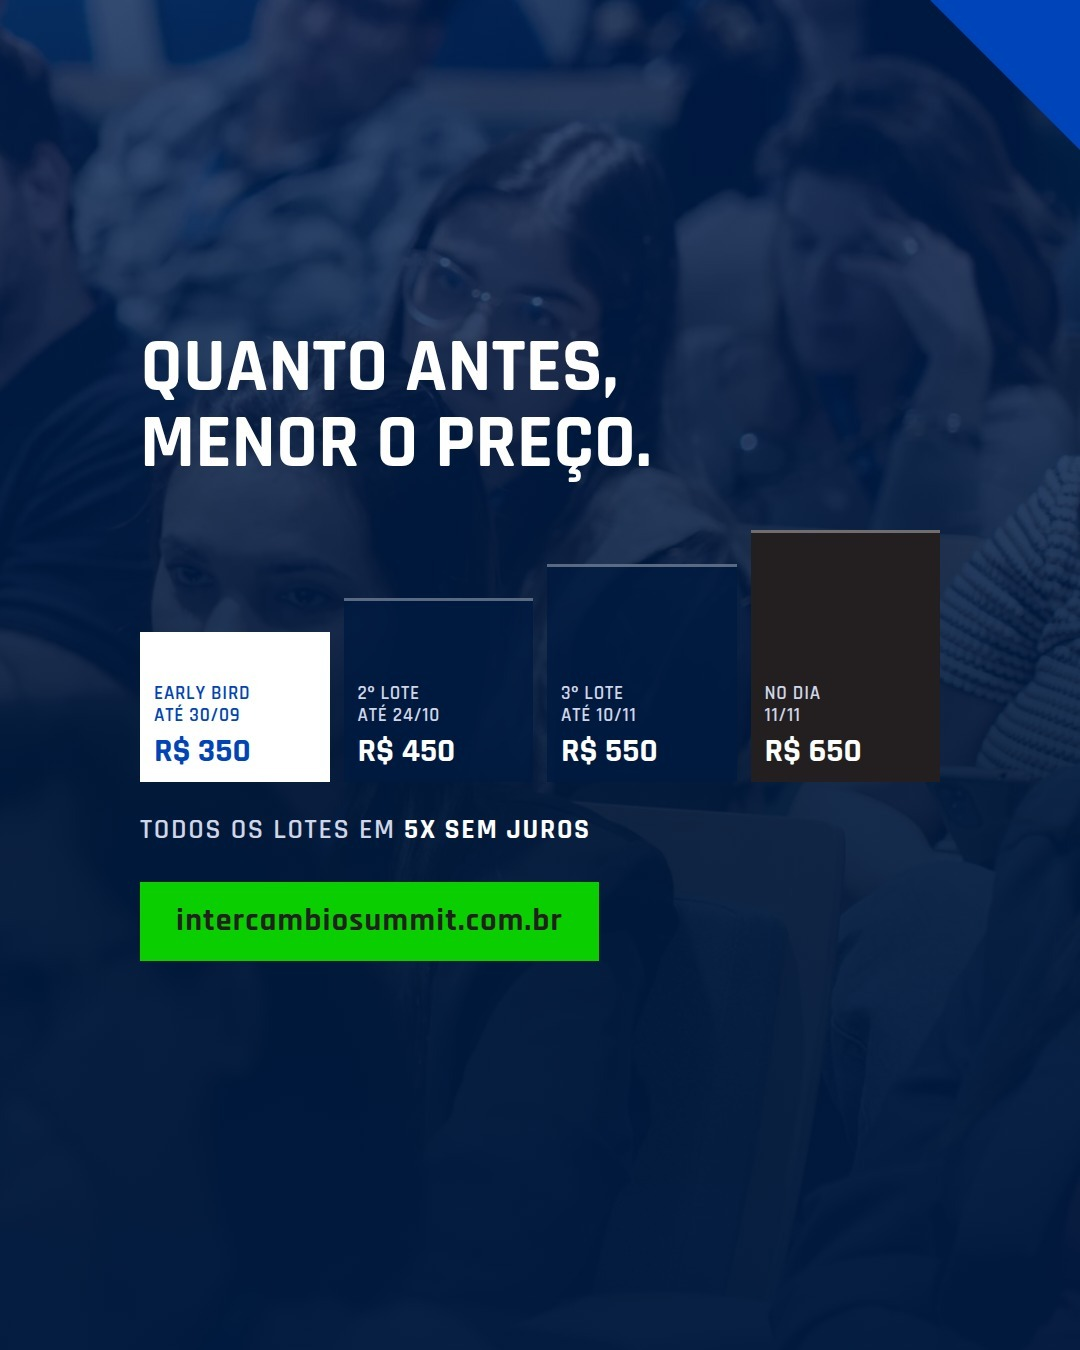
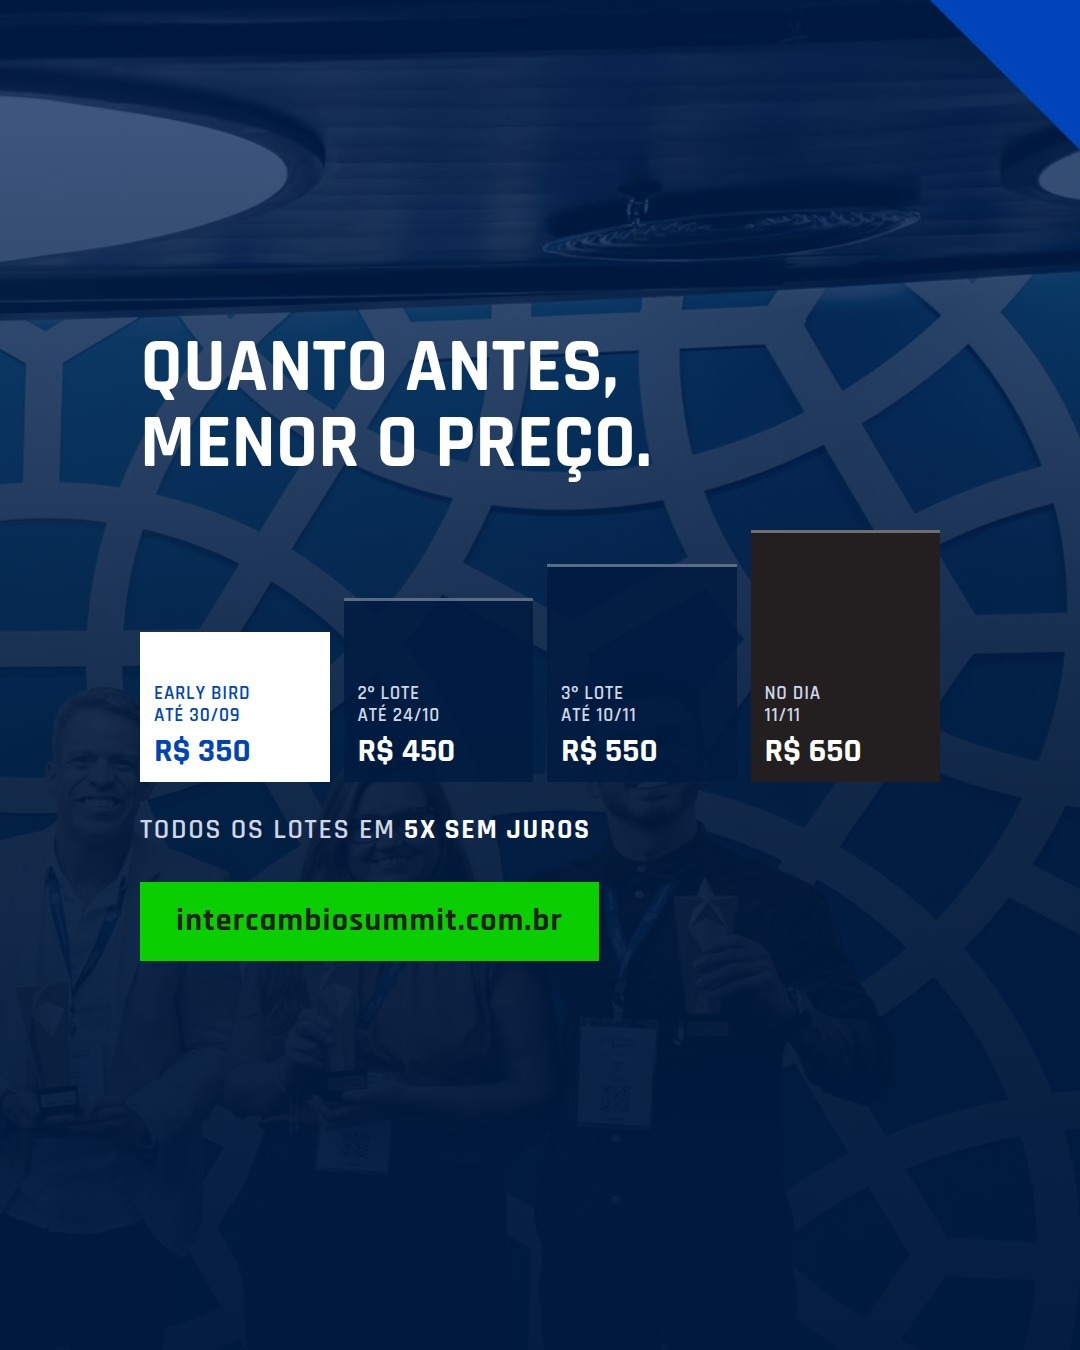
Panorama dos fixados com a foto dos premiados 2025 no fundo
Troca a plateia (já usada em P1, P6, P11 e kit) pela cenografia com os
vencedores de 2025 em silhueta, alinhada ao Prêmio citado no programa.

Claude-Session: https://claude.ai/code/session_01K1jUSLEfcAN8o76QZJPw2m

diff --git a/criativos/templates/pinado-panorama.html b/criativos/templates/pinado-panorama.html
@@ -78,7 +78,7 @@
 </head>
 <body>
 <div class="canvas pano">
-  <div class="bg-foto"><img src="../../site/assets/img/eventos/plateia-2400.webp" alt=""></div>
+  <div class="bg-foto"><img src="../../site/assets/img/eventos/premiados-2400.webp" alt="" style="object-position:center top;"></div>
   <div class="plano-45"></div>
   <div class="canto-45"></div>
 
